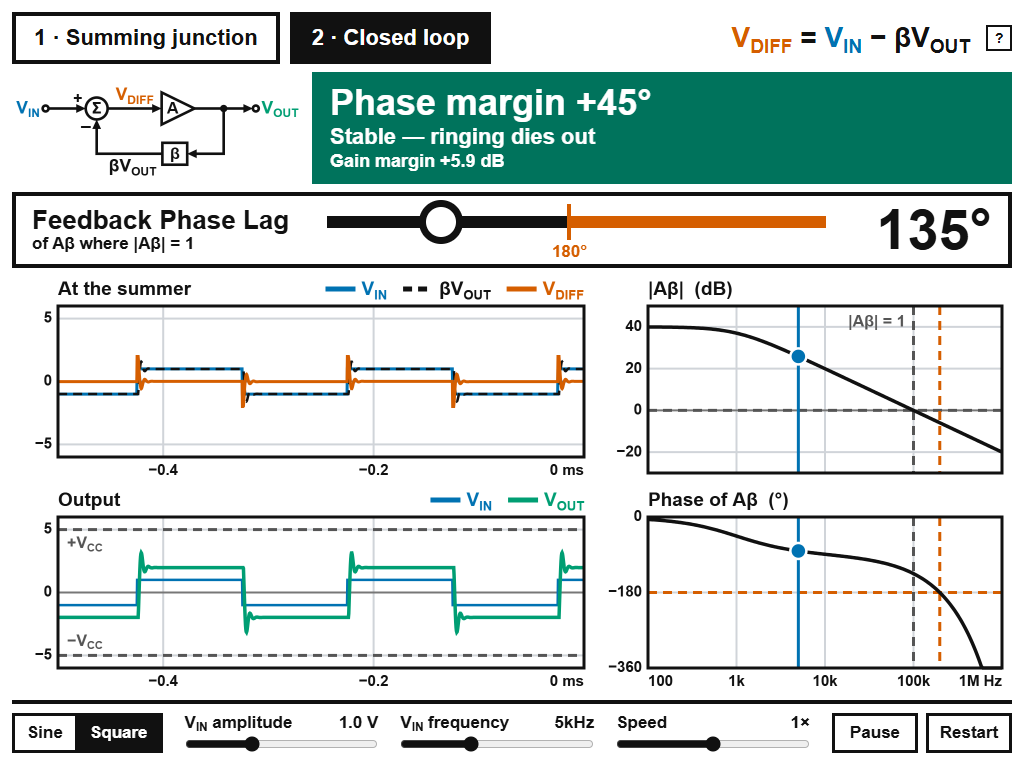
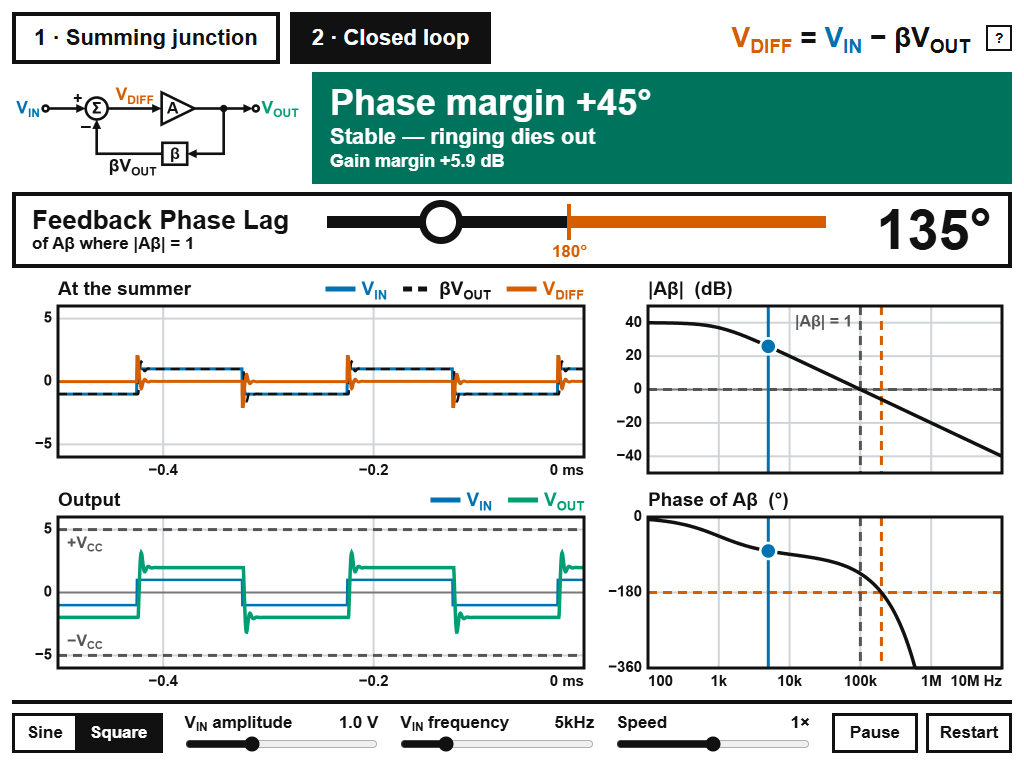
View 2: V_IN frequency slider now reaches 2 MHz
- F2_MIN/F2_MAX = 1 kHz / 2 MHz (was 1 kHz - 100 kHz), a decade past crossover.
- LoopSim.DT 25 ns -> 5 ns so 2 MHz gets 100 samples per cycle; MASK 1023 -> 2047
  to hold the longest delay (270 deg = 1003 samples); NOISE scaled by sqrt(5) so
  an unstable loop starts up as before.
- view2_time(): time axis is unchanged up to 100 kHz, then shows 10 cycles in
  microseconds (the old 100 us floor would have shown 200 cycles at 2 MHz).
- View 2 Bode axis is 100 Hz - 10 MHz and |AB| goes down to -50 dB so the
  signal marker stays on the plot. The phase dot is hidden once the lag passes
  360 deg instead of sitting on the bottom edge.
- Tests: range/delay-line fit, gain above crossover vs theory, parity for the
  new constants and view2_time. README screenshots retaken.

Claude-Session: https://claude.ai/code/session_01CdaLBysrQ9tEWyoN4EvuJw

diff --git a/feedback_phase_sim.html b/feedback_phase_sim.html
@@ -128,7 +128,7 @@
       <label class="slider"><span><span>V<sub>IN</sub> amplitude</span><span id="ampText"></span></span>
         <input id="amp" type="range" min="0" max="3" step="0.1" value="1"></label>
       <label class="slider"><span><span>V<sub>IN</sub> frequency</span><span id="f2Text"></span></span>
-        <input id="f2in" type="range" min="3" max="5" step="0.005" value="3.69897"></label>
+        <input id="f2in" type="range" min="3" max="6.305" step="0.005" value="3.69897"></label>
       <label class="slider"><span><span>Speed</span><span id="speedText"></span></span>
         <input id="speed" type="range" min="-0.602" max="0.602" step="0.002" value="0"></label>
       <div style="flex:none;display:flex;gap:8px">
@@ -177,7 +177,9 @@ const TAU_VIEW1 = tauFor(150);            // fixed excess delay for view 1's Bod
 // linked to the Bode plot, the lag can be brought all the way down to 0 deg
 // (the pole alone still gives 5.7 deg at 100 Hz, 0.06 deg at 1 Hz).
 const F1_MIN = 1, F1_MAX = 3e5;
-const BODE_X1 = [1, 1e6], BODE_X2 = [100, 1e6], BODE_PER_DECADE = 60;   // Bode axis, views 1 / 2
+const BODE_X1 = [1, 1e6], BODE_X2 = [100, 1e7], BODE_PER_DECADE = 60;   // Bode axis, views 1 / 2
+// View 2 "V_IN frequency" range: a decade past the 100 kHz crossover, where |A*B| < 1.
+const F2_MIN = 1e3, F2_MAX = 2e6;
 function bodeFreqs(xr) {
   const n = Math.round(Math.log10(xr[1] / xr[0]) * BODE_PER_DECADE), out = [];
   for (let i = 0; i <= n; i++) out.push(xr[0] * 10 ** (i / BODE_PER_DECADE));
@@ -187,6 +189,12 @@ const linkedPhase = f => Math.min(360, loopPhase(f, TAU_VIEW1));   // view 1, ph
 function view1Ratio(k, phDeg) {           // |V_DIFF| / |V_IN| when V_FB = k * V_IN lagging phDeg
   const phi = phDeg * Math.PI / 180;
   return Math.hypot(1 - k * Math.cos(phi), k * Math.sin(phi));
+}
+// view 2 time axis [span s, unit, multiplier]: 2.5 cycles of V_IN, but never under
+// 100 us up to 100 kHz so ringing near crossover stays in view; above that, 10 cycles
+function view2Time(f) {
+  const span = Math.min(1e-3, Math.max(Math.min(1e-4, 10 / f), 2.5 / f));
+  return span >= 1e-4 ? [span, 'ms', 1e3] : [span, 'µs', 1e6];
 }
 const timeUnit = span => span >= 2 ? ['s', 1] : span >= 2e-3 ? ['ms', 1e3] : ['µs', 1e6];
 
@@ -225,7 +233,7 @@ class LoopSim {
     if (i0 > 200) for (const a of [this.T, this.VIN, this.VOUT, this.VD]) a.splice(0, i0);
   }
 }
-LoopSim.DT = 2.5e-8; LoopSim.MASK = 1023; LoopSim.NOISE = 2e-3;
+LoopSim.DT = 5e-9; LoopSim.MASK = 2047; LoopSim.NOISE = 0.0045;   // see the Python file for why
 function lowerBound(a, v) { let lo = 0, hi = a.length; while (lo < hi) { const m = (lo + hi) >> 1; if (a[m] < v) lo = m + 1; else hi = m; } return lo; }
 
 // ---------------------------------------------------------------------------
@@ -415,10 +423,10 @@ function drawTime() {
     plot(cv.pb, { ...base, title: 'Out of the summer',
       series: [{ xs, ys: vin, color: C.VIN, width: 2.5, label: 'V_{IN}' }, { xs, ys: vd, color: C.DIFF, width: 4, label: 'V_{DIFF}' }] });
   } else {
-    const span = Math.min(1e-3, Math.max(1e-4, 2.5 / S.f2)), i0 = lowerBound(sim.T, sim.t - span);
+    const [span, unit, mul] = view2Time(S.f2), i0 = lowerBound(sim.T, sim.t - span);
     const xs = [], fb = [];
-    for (let i = i0; i < sim.T.length; i++) { xs.push((sim.T[i] - sim.t) * 1e3); fb.push(BETA * sim.VOUT[i]); }
-    const vin = sim.VIN.slice(i0), base = { xr: [-span * 1e3, 0], yr: [-VCC * 1.2, VCC * 1.2], yticks: [-VCC, 0, VCC], xunit: 'ms' };
+    for (let i = i0; i < sim.T.length; i++) { xs.push((sim.T[i] - sim.t) * mul); fb.push(BETA * sim.VOUT[i]); }
+    const vin = sim.VIN.slice(i0), base = { xr: [-span * mul, 0], yr: [-VCC * 1.2, VCC * 1.2], yticks: [-VCC, 0, VCC], xunit: unit };
     plot(cv.pa, { ...base, title: 'At the summer',
       series: [{ xs, ys: vin, color: C.VIN, width: 3, label: 'V_{IN}' }, { xs, ys: fb, color: C.FB, width: 2.5, dash: DASH, label: 'βV_{OUT}' },
                { xs, ys: sim.VD.slice(i0), color: C.DIFF, width: 3, label: 'V_{DIFF}' }] });
@@ -436,14 +444,15 @@ function drawStatic() {
   const f180 = freqForPhase(180, tau), bf = bodeFreqs(xr), mag = bf.map(f => 20 * Math.log10(loopMag(f))), ph = bf.map(f => -loopPhase(f, tau));
   const vlines = [{ x: FC, color: C.MID, dash: DASH }, { x: f180, color: C.DIFF, dash: DASH }, { x: fsig, color: C.VIN }];
   // view 1: six decades are too tight to label every one at this width
-  const xb = { xr, logx: true, xticks: [1, 10, 100, 1e3, 1e4, 1e5, 1e6], xlabels: S.mode === 1 ? [1, 100, 1e4, 1e6] : null, xfmt: fmtFreq, vlines };
-  const magPlot = { ...xb, title: '|Aβ|  (dB)', yr: [-30, 50], yticks: [-20, 0, 20, 40], noX: true,
+  const xb = { xr, logx: true, xticks: [1, 10, 100, 1e3, 1e4, 1e5, 1e6, 1e7], xlabels: S.mode === 1 ? [1, 100, 1e4, 1e6] : null, xfmt: fmtFreq, vlines };
+  const magPlot = { ...xb, title: '|Aβ|  (dB)', yr: [-50, 50], yticks: [-40, -20, 0, 20, 40], noX: true,
     hlines: [{ y: 0, color: C.MID }], series: [{ xs: bf, ys: mag, color: C.INK, width: 3.5 }],
     texts: [{ x: FC, dx: -8, dy: 16, text: '|Aβ| = 1', color: C.MID, align: 'right' }],
     dots: [{ x: fsig, y: fsig ? 20 * Math.log10(loopMag(fsig)) : 0, color: C.VIN }] };
   const phPlot = { ...xb, title: 'Phase of Aβ  (°)', yr: [-360, 0], yticks: [-360, -180, 0], xunit: 'Hz',
     hlines: [{ y: -180, color: C.DIFF }], series: [{ xs: bf, ys: ph, color: C.INK, width: 3.5 }],
-    dots: [{ x: fsig, y: fsig ? -loopPhase(fsig, tau) : 0, color: C.VIN }] };
+    // past 360 deg the curve has left the plot: no dot rather than one parked on the bottom edge
+    dots: [{ x: fsig && loopPhase(fsig, tau) <= 360 ? fsig : null, y: fsig ? -loopPhase(fsig, tau) : 0, color: C.VIN }] };
   if (S.mode === 1) { drawPhasor(); if (S.link) plot(cv.r2, phPlot); }
   else { plot(cv.r1, magPlot); plot(cv.r2, phPlot); }
 }
@@ -572,7 +581,7 @@ $('k').oninput = e => { S.k = +e.target.value; update(); };
 $('link').onchange = e => { S.link = e.target.checked; if (S.link) linkPhaseToF1(); update(); };
 $('f1in').oninput = e => { S.f1 = Math.min(F1_MAX, Math.max(F1_MIN, 10 ** +e.target.value)); if (S.link) linkPhaseToF1(); update(); };
 $('amp').oninput = e => { S.amp = +e.target.value; update(); };
-$('f2in').oninput = e => { S.f2 = 10 ** +e.target.value; update(); };
+$('f2in').oninput = e => { S.f2 = Math.min(F2_MAX, Math.max(F2_MIN, 10 ** +e.target.value)); update(); };
 $('speed').oninput = e => { S.speed = 10 ** +e.target.value; update(); };
 $('sine').onclick = () => { S.shape = 'sine'; update(); };
 $('square').onclick = () => { S.shape = 'square'; update(); };
@@ -613,7 +622,7 @@ function frame(now) {
   const el = Math.min((now - last) / 1000, 0.1);
   last = now;
   if (S.mode === 2) {
-    const span = Math.min(1e-3, Math.max(1e-4, 2.5 / S.f2));
+    const span = view2Time(S.f2)[0];
     if (!S.paused) {
       const steps = el * span * S.speed / SWEEP_S / LoopSim.DT + carry, n = Math.floor(steps);
       carry = steps - n;

diff --git a/feedback_phase_sim.py b/feedback_phase_sim.py
@@ -76,7 +76,10 @@ TAU_VIEW1 = tau_for_crossover_phase(150.0)
 # (the pole alone still gives 5.7 deg at 100 Hz, 0.06 deg at 1 Hz).
 F1_MIN, F1_MAX = 1.0, 3.0e5
 BODE_X1 = (1.0, 1.0e6)      # Bode frequency axis in view 1 (covers F1_MIN)
-BODE_X2 = (100.0, 1.0e6)    # ... and in view 2
+BODE_X2 = (100.0, 1.0e7)    # ... and in view 2 (covers F2_MAX)
+# View 2 "V_IN frequency" range.  It runs a decade past the 100 kHz crossover so
+# students can drive the loop where |A*B| < 1 and feedback no longer does anything.
+F2_MIN, F2_MAX = 1.0e3, 2.0e6
 BODE_PER_DECADE = 60        # points per decade on the Bode curves
 
 
@@ -103,6 +106,14 @@ def time_unit(span):
     return ("ms", 1e3) if span >= 2e-3 else ("µs", 1e6)
 
 
+def view2_time(f):
+    """(span s, unit, multiplier) of view 2's scrolling time axis at input
+    frequency f.  2.5 cycles of V_IN, but never under 100 us up to 100 kHz so
+    ringing near crossover stays in view; above that, 10 cycles."""
+    span = min(1e-3, max(min(1e-4, 10.0 / f), 2.5 / f))
+    return (span, "ms", 1e3) if span >= 1e-4 else (span, "µs", 1e6)
+
+
 def phase_label(mode):
     """(title, sub-line) of the big phase slider.  View 1 imposes a lag on the
     fed-back signal; in view 2 the same slider picks the loop's lag at crossover,
@@ -114,9 +125,13 @@ def phase_label(mode):
 
 class LoopSim:
     """Time-domain closed loop with rail saturation (forward Euler + delay line)."""
-    DT = 2.5e-8
-    MASK = 1023
-    NOISE = 2e-3     # tiny disturbance so an unstable loop can start by itself
+    # 5 ns = 100 samples per cycle at F2_MAX.  MASK must hold the longest delay:
+    # 270 deg at crossover is 5.02 us = 1003 samples.
+    DT = 5e-9
+    MASK = 2047
+    # tiny disturbance so an unstable loop can start by itself (scaled with
+    # 1/sqrt(DT) so its strength inside the loop bandwidth doesn't depend on DT)
+    NOISE = 4.5e-3
 
     def __init__(self):
         self.reset()
@@ -1061,9 +1076,9 @@ class App:
         self.phasor = tk.Canvas(right, bg=BG, highlightthickness=0, width=10, height=10)
         self.phasor.bind("<Configure>", lambda e: self.draw_phasor())
         bode = dict(xrange=BODE_X2, logx=True, xfmt=fmt_freq,
-                    xticks=[1, 10, 100, 1e3, 1e4, 1e5, 1e6])
-        self.bm = Plot(right, title="|Aβ|  (dB)", yrange=(-30, 50),
-                       yticks=[-20, 0, 20, 40], show_x=False, **bode)
+                    xticks=[1, 10, 100, 1e3, 1e4, 1e5, 1e6, 1e7])
+        self.bm = Plot(right, title="|Aβ|  (dB)", yrange=(-50, 50),
+                       yticks=[-40, -20, 0, 20, 40], show_x=False, **bode)
         self.bp = Plot(right, title="Phase of Aβ  (°)", yrange=(-360, 0), xunit="Hz",
                        yticks=[-360, -180, 0], **bode)
         self.bm.hlines = [(0, C_MID, "", False)]
@@ -1096,7 +1111,7 @@ class App:
         self.seg_shape.set_active(0)
         self.s_amp = Slider(self.f2, "V_{IN} amplitude", 0.0, 3.0, 1.0,
                             lambda v: "%.1f V" % v, ch, step=0.1)
-        self.s_f2 = Slider(self.f2, "V_{IN} frequency", 1e3, 1e5, 5e3, fmt_hz, ch,
+        self.s_f2 = Slider(self.f2, "V_{IN} frequency", F2_MIN, F2_MAX, 5e3, fmt_hz, ch,
                            log=True)
         self.s_speed = Slider(self.f2, "Speed", 0.25, 4.0, 1.0,
                               lambda v: "%.2g×" % v, ch, log=True)
@@ -1562,7 +1577,10 @@ class App:
         # lines carry the margins; dots on them made those points look special.
         if fsig:
             self.bm.put("fsig_d", "dot", x=fsig, y=20 * math.log10(loop_mag(fsig)), color=C_VIN)
-            self.bp.put("fsig_d", "dot", x=fsig, y=-loop_phase(fsig, tau), color=C_VIN)
+            # past 360 deg the curve has left the plot: no dot rather than one
+            # parked on the bottom edge
+            lag = loop_phase(fsig, tau)
+            self.bp.put("fsig_d", "dot", x=fsig if lag <= 360 else None, y=-lag, color=C_VIN)
         else:
             self.bm.put("fsig_d", "dot", x=None, y=0, color=C_VIN)
             self.bp.put("fsig_d", "dot", x=None, y=0, color=C_VIN)
@@ -1577,11 +1595,11 @@ class App:
         if self.mode.get() == 2:
             sim = self.sim
             f = self.s_f2.get()
-            span = min(1e-3, max(1e-4, 2.5 / f))
+            span, unit, mul = view2_time(f)
             if span != self.span2:
                 self.span2 = span
-                self.pa.configure(xrange=(-span * 1e3, 0), xunit="ms")
-                self.pb.configure(xrange=(-span * 1e3, 0), xunit="ms")
+                self.pa.configure(xrange=(-span * mul, 0), xunit=unit)
+                self.pb.configure(xrange=(-span * mul, 0), xunit=unit)
             if not self.paused:
                 steps = elapsed * span * self.s_speed.get() / self.SWEEP_S / sim.DT + self.carry
                 n = int(steps)
@@ -1592,7 +1610,7 @@ class App:
                 sim.trim(span)
             i0 = bisect.bisect_left(sim.T, sim.t - span)
             t1 = sim.t
-            xs = [(t - t1) * 1e3 for t in sim.T[i0:]]
+            xs = [(t - t1) * mul for t in sim.T[i0:]]
             vout = sim.VOUT[i0:]
             self.pa.set_data("vin", xs, sim.VIN[i0:])
             self.pa.set_data("vfb", xs, [BETA * v for v in vout])

diff --git a/tests/test_parity.py b/tests/test_parity.py
@@ -131,6 +131,15 @@ class Parity(unittest.TestCase):
             self.assertEqual(g["bg"], color, c)
             self.assertEqual(g["lines"], [text for text, _, _ in lines], c)
 
+    def test_view2_frequency_range_and_time_axis(self):
+        freqs = [1e3, 2.5e3, 5e3, 2.5e4, 1e5, 100001, 2e5, 1e6, 2e6]
+        got = js([fn("F2_MIN"), fn("F2_MAX")] + [fn("view2Time", f) for f in freqs])
+        self.assertEqual(got[:2], [m.F2_MIN, m.F2_MAX])
+        for f, g in zip(freqs, got[2:]):
+            w = m.view2_time(f)
+            self.close(g[0], w[0], f)
+            self.assertEqual(g[1:], list(w[1:]), f)
+
     def test_phase_slider_label(self):
         got = js([fn("phaseLabel", 1), fn("phaseLabel", 2)])
         self.assertEqual(got, [list(m.phase_label(1)), list(m.phase_label(2))])
@@ -148,7 +157,7 @@ class Parity(unittest.TestCase):
         # noise off on both sides; a square wave so no sin() is involved and
         # the two should agree to the last bit
         for ph, amp in ((120, 1.0), (170, 1.0), (200, 0.5)):
-            p = dict(n=20000, amp=amp, freq=5e3, square=True, tau=m.tau_for_crossover_phase(ph), rec=7)
+            p = dict(n=100000, amp=amp, freq=5e3, square=True, tau=m.tau_for_crossover_phase(ph), rec=7)
             got = js([{"sim": p}])[0]
             noise = m.LoopSim.NOISE
             try:
@@ -185,7 +194,9 @@ class Parity(unittest.TestCase):
         self.assertGreaterEqual(10 ** f1["max"], m.F1_MAX)      # the script clamps to F1_MAX
         self.assertLess(10 ** (f1["max"] - f1["step"]), m.F1_MAX)
         self.assertAlmostEqual(10 ** f1["value"], 1e3)
-        self.assertEqual((10 ** f2["min"], 10 ** f2["max"]), (1e3, 1e5))
+        self.assertAlmostEqual(10 ** f2["min"], m.F2_MIN)
+        self.assertGreaterEqual(10 ** f2["max"], m.F2_MAX)      # the script clamps to F2_MAX
+        self.assertLess(10 ** (f2["max"] - f2["step"]), m.F2_MAX)
         self.assertAlmostEqual(10 ** f2["value"], 5e3, delta=1)
         self.assertAlmostEqual(10 ** sp["min"], 0.25, delta=1e-3)
         self.assertAlmostEqual(10 ** sp["max"], 4.0, delta=1e-2)

diff --git a/tests/test_model.py b/tests/test_model.py
@@ -122,6 +122,29 @@ class Sim(unittest.TestCase):
             got = max(abs(v) for v in sim.VOUT[-n:]) / 0.05
             self.assertAlmostEqual(got / want, 1.0, delta=0.01, msg=(ph, f, got, want))
 
+    def test_view2_range_fits_the_sim(self):
+        # the longest delay the slider can ask for must fit the delay line
+        tau = m.tau_for_crossover_phase(270)
+        self.assertLess(tau / m.LoopSim.DT + 2, m.LoopSim.MASK + 1)
+        self.assertGreaterEqual(1 / m.F2_MAX / m.LoopSim.DT, 100)      # samples per cycle
+        self.assertLessEqual(m.F2_MAX, m.BODE_X2[1])                    # marker stays on the plot
+        # time axis: unchanged up to 100 kHz, then 10 cycles in microseconds
+        self.assertEqual(m.view2_time(1e3), (1e-3, "ms", 1e3))
+        self.assertEqual(m.view2_time(1e5), (1e-4, "ms", 1e3))
+        span, unit, _ = m.view2_time(m.F2_MAX)
+        self.assertAlmostEqual(span * m.F2_MAX, 10)
+        self.assertEqual(unit, "µs")
+
+    def test_gain_above_crossover_matches_theory(self):
+        # past crossover the loop gain is < 1, so Vout is just A * Vin
+        for f in (5e5, m.F2_MAX):
+            tau = m.tau_for_crossover_phase(120)
+            L = loop_gain(f, tau)
+            want = abs(L / m.BETA / (1 + L))
+            sim = self.run_sim(120, 0.5, f, 3e-4)
+            got = max(abs(v) for v in sim.VOUT[-int(2 / f / (4 * sim.DT)):]) / 0.5
+            self.assertAlmostEqual(got / want, 1.0, delta=0.02, msg=(f, got, want))
+
     def test_stable_loop_stays_quiet(self):
         sim = self.run_sim(150, 0.0, 5e3, 2e-3, noise=self._noise)
         self.assertLess(max(abs(v) for v in sim.VOUT), 0.2)

diff --git a/CLAUDE.md b/CLAUDE.md
@@ -17,16 +17,21 @@ paths and personal details.
   `<input type=range>` (log sliders step 0.005 decades vs continuous in Tk).
 - **Parity:** must match exactly - model constants (A0, BETA, FP, VCC, TAU_VIEW1,
   F1_MIN/F1_MAX, BODE_X1/BODE_X2), LoopSim (DT, MASK, NOISE, half-sample correction,
-  rec/trim), phase ranges/defaults (0-360 @0, 95-270 @120), slider ranges/steps/
+  rec/trim), F2_MIN/F2_MAX, phase ranges/defaults (0-360 @0, 95-270 @120), slider ranges/steps/
   defaults, banner thresholds and copy, plot titles/ticks/units, palette and stage-px
   sizes. Enforced by `tests/test_parity.py` for everything except layout/drawing.
 - **Testable logic lives in pure module-level functions**, same names in both files
   (`view1_status`/`view1Status`, `view2_status`, `view1_ratio`, `linked_phase`,
-  `time_unit`, `phase_label`, `bode_freqs`, formatters). Put new numbers/wording there, not inside
+  `time_unit`, `view2_time`, `phase_label`, `bode_freqs`, formatters). Put new numbers/wording there, not inside
   `App.refresh` / `update()`, or the tests can't see them.
 - **View 1 signal frequency is 1 Hz - 300 kHz** so the linked phase reaches 0 deg
   (pole alone is 5.7 deg at 100 Hz). View 1's Bode axis is therefore 1 Hz - 1 MHz
-  with every other decade labelled (`xlabels`); view 2 keeps 100 Hz - 1 MHz.
+  with every other decade labelled (`xlabels`).
+- **View 2 V_IN frequency is 1 kHz - 2 MHz** (`F2_MIN`/`F2_MAX`), a decade past the
+  100 kHz crossover. Three things exist only to support that: `LoopSim.DT` = 5 ns
+  (100 samples/cycle at 2 MHz; `MASK` 2047 holds the 1003-sample delay at 270 deg;
+  `NOISE` scaled by 1/sqrt(DT)), `view2_time()` (time axis unchanged to 100 kHz, then
+  10 cycles in µs), and view 2's Bode axis 100 Hz - 10 MHz with |AB| down to -50 dB.
 
 ## Tests (`py -m unittest discover -s tests -v`, stdlib unittest)
 - `test_model.py` - Python physics vs textbook formulas, incl. LoopSim steady-state
